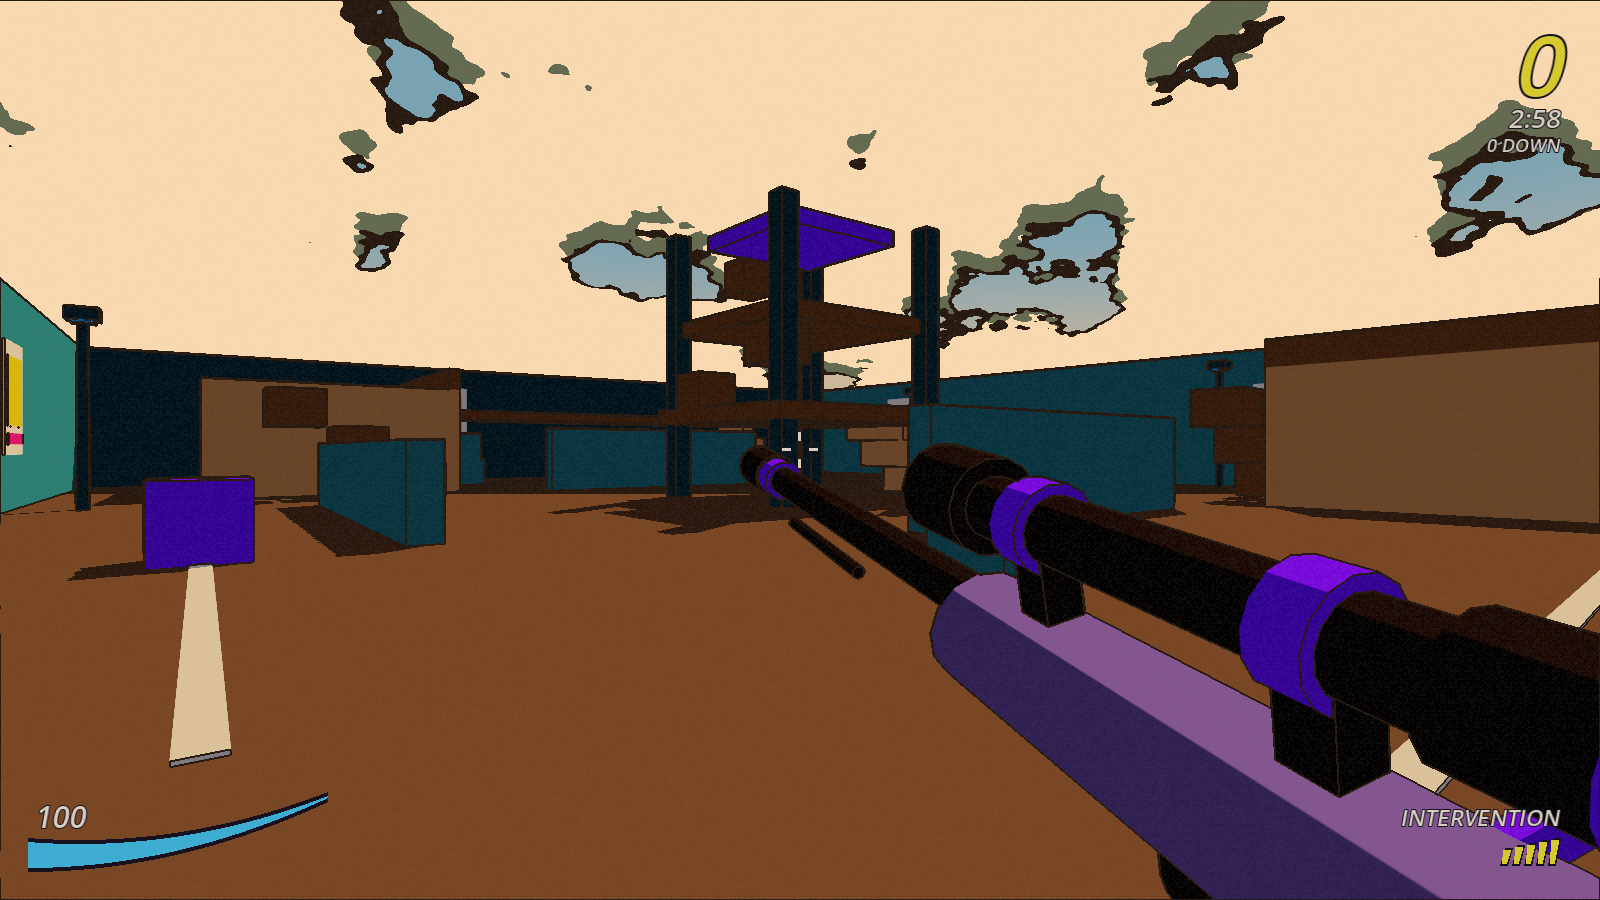
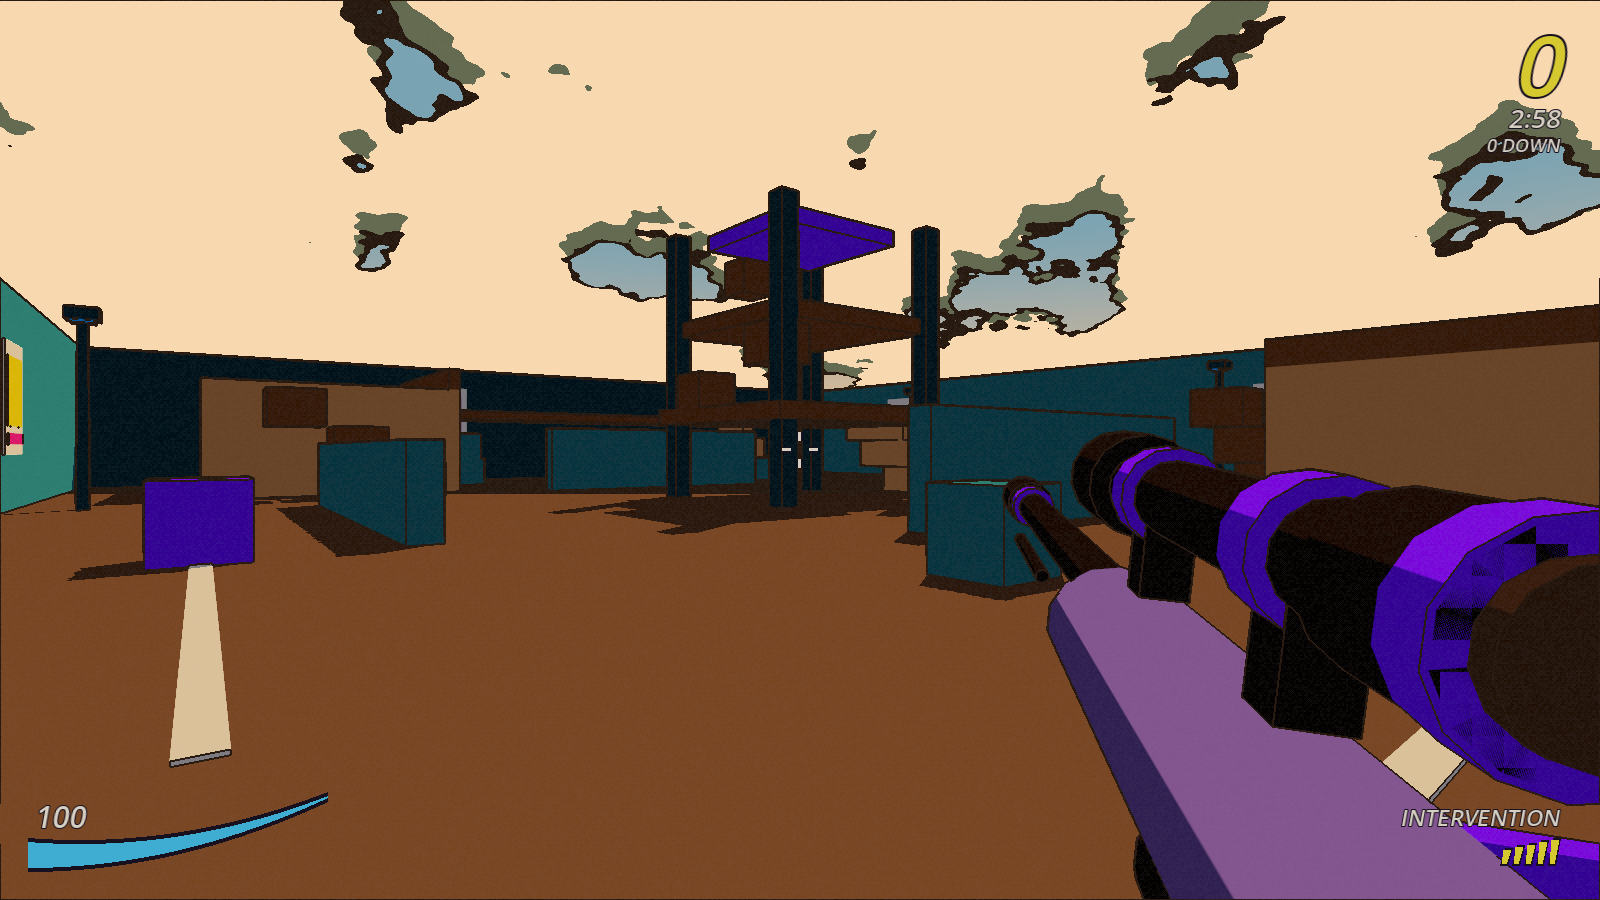
Sniper hip pose restored to the original session-1 numbers

Changed region(s): [[0.4375, 0.4667, 1.0, 1.0]]

diff --git a/DECISIONS.md b/DECISIONS.md
@@ -110,3 +110,4 @@ Append-only. One line per assumption: date, the decision, the reason. Newest at 
 - 2026-09-18 — Sniper reload is one round at a time (Sean): `reload_per_round` on the weapon, `reload_start_ticks` 22 then `reload_round_ticks` 26 per round (5 rounds ≈ 2.5 s, the same total as the old 156-tick swap), each round is a `reload_round` event with its own "shell_in" sound, the ammo ticks fill one by one because they read the live count, and the trigger interrupts the reload once at least one round is in. State stays rollback-safe: the only new state is the same `reload_until_tick` reused per round. Three weapon-logic tests cover it; the AR keeps its magazine swap.
 - 2026-09-18 — Board spots (Sean's list): item spot (crate marker, gives a random item), damage spot (spiked-ball marker, −3 coins, or eaten by a shield), coin spot (+3), and exactly one safe spot (`shield` type, cyan tile with a dome marker) opposite the start that hands out a SHIELD you carry until the next bomb or damage spot hits you: that is the "invulnerable to damage" spot. The event spot (teleport) stays. Generated into BOMBA BAY by `tools/gen_board.py`; tested.
 - 2026-09-18 — Sniper hip pose copied from `reference/Intervention_MW2.webp` (his file): rear-right-top view, eyepiece close at the right, muzzle up-left, canted 16° so the scope top and the bolt show; position (0.25, −0.21, −0.38), pitch +7°, yaw +27°.
+- 2026-09-18 — Sniper hip pose restored to the session-1 numbers (0.23, −0.19, −0.34; pitch 3°, yaw −11°, roll −5°) on Sean's word ("switch it back to what you had initially, it looks really bad right now"). The rounded model, round scope and the through-the-glass scope-in stay; only the pose went back.
